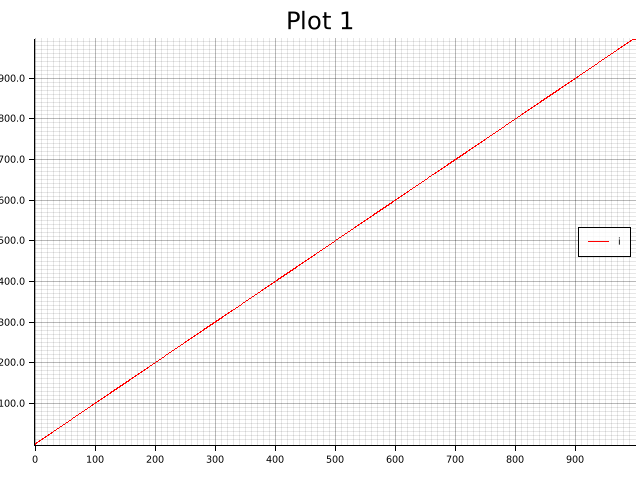
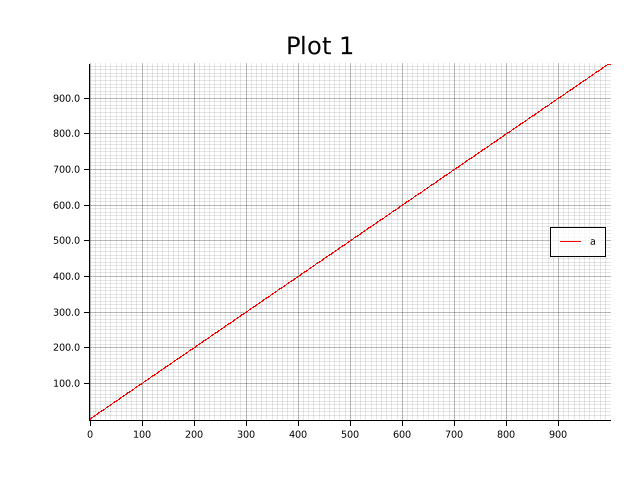
remove dependency for once_cell

Changed region(s): [[0.0, 0.0, 1.0, 0.9688]]

diff --git a/src/lib.rs b/src/lib.rs
@@ -34,11 +34,10 @@
 /// pass `--no-default-features` to this crate.
 #[macro_export]
 macro_rules! plot {
-    ( $($variable:ident),* $(,)? $( ; $($key:ident = $value:expr),* $(,)? )?) => {
+    ( $($variable:expr $( => $name:literal )? ),* $(,)? $( ; $($key:ident = $value:expr),* $(,)? )?) => {
         #[cfg(debug_assertions)]
         #[cfg(feature = "debug")]
         {
-            use once_cell::unsync::Lazy;
             use std::cell::RefCell;
             use $crate::{PLOTS, Plottable, Plot, Options, Location};
 
@@ -53,13 +52,18 @@ macro_rules! plot {
             PLOTS.with(|plots| {
                 let mut map = plots
                     .plots
-                    .lock()
-                    .unwrap();
-
+                    .borrow_mut();
+                
                 let entry = map
                     .entry(location.clone())
                     .or_insert_with(|| {
-                        let names = [$(stringify!($variable)),*];
+                        let names = [$({
+                            let name = stringify!($variable);
+                            $(
+                                let name = $name;
+                            )?
+                            name
+                        }),*];
 
                         let options = Options {
                             $($(
@@ -83,22 +87,21 @@ pub use debug::*;
 #[cfg(feature = "debug")]
 mod debug {
     use num_traits::cast::ToPrimitive;
-    use once_cell::unsync::Lazy;
     use plotters::prelude::*;
-    use std::{collections::HashMap, fmt, sync::Mutex};
+    use std::{cell::RefCell, collections::HashMap, fmt};
 
     thread_local! {
-        pub static PLOTS: Lazy<Plots> = Lazy::new(Plots::new);
+        pub static PLOTS: Plots = Plots::new();
     }
 
     pub struct Plots {
-        pub plots: Mutex<HashMap<Location, Plot>>,
+        pub plots: RefCell<HashMap<Location, Plot>>,
     }
 
     // The plots are generated as soon as `Drop` is called.
     impl Drop for Plots {
         fn drop(&mut self) {
-            for (_, plot) in self.plots.lock().unwrap().iter() {
+            for (_, plot) in self.plots.borrow().iter() {
                 plot.plot().unwrap();
             }
         }
@@ -120,7 +123,7 @@ mod debug {
     impl Plots {
         fn new() -> Self {
             Plots {
-                plots: Mutex::new(HashMap::new()),
+                plots: RefCell::new(HashMap::new()),
             }
         }
     }
@@ -213,19 +216,9 @@ mod debug {
 
             let mut chart = ChartBuilder::on(&root)
                 .caption(caption, 30)
-                .margin(5)
+                .margin(30)
                 .x_label_area_size(30)
-                .y_label_area_size(
-                    30 + if self.options.y_desc.is_some() {
-                        self.y_max()
-                            .to_string()
-                            .len()
-                            .max(self.y_min().to_string().len()) as i32
-                            * 7
-                    } else {
-                        0
-                    },
-                )
+                .y_label_area_size(60)
                 .build_cartesian_2d(self.x_min()..self.x_max(), self.y_min()..self.y_max())?;
 
             let mut mesh = chart.configure_mesh();

diff --git a/examples/multiple-plots.rs b/examples/multiple-plots.rs
@@ -1,6 +1,7 @@
 fn main() {
-    for i in 0usize..1000usize {
-        debug_plotter::plot!(i; caption = "Plot 1");
-        debug_plotter::plot!(i; caption = "Plot 2");
+    for a in 0usize..1000usize {
+        let b = a * 2;
+        debug_plotter::plot!(a; caption = "Plot 1");
+        debug_plotter::plot!(b; caption = "Plot 2");
     }
 }

diff --git a/examples/options.rs b/examples/options.rs
@@ -2,7 +2,7 @@ fn main() {
     for i in 0usize..1000usize {
         debug_plotter::plot!(
             i;
-            caption = "Options Testing",
+            caption = "Options",
             size = (400, 300),
             x_desc = "X Description",
             y_desc = "Y Description",

diff --git a/examples/renaming.rs b/examples/renaming.rs
@@ -1,0 +1,9 @@
+fn main() {
+    for x in 0usize..20usize {
+        debug_plotter::plot!(
+            x => "x",
+            (x as f32).sin() => "sin(x)";
+            caption = "Renaming"
+        );
+    }
+}
